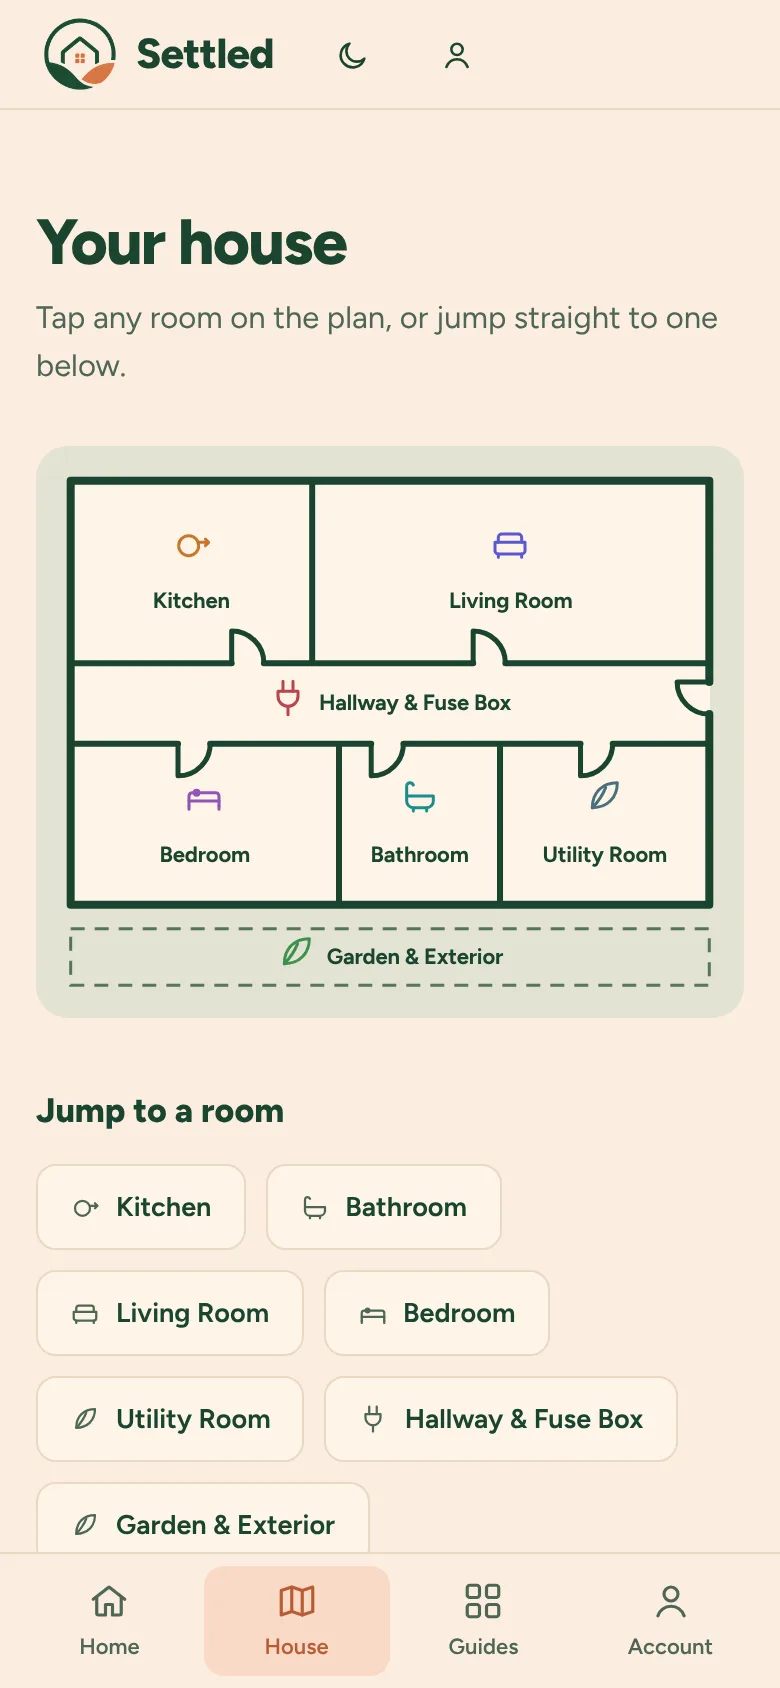
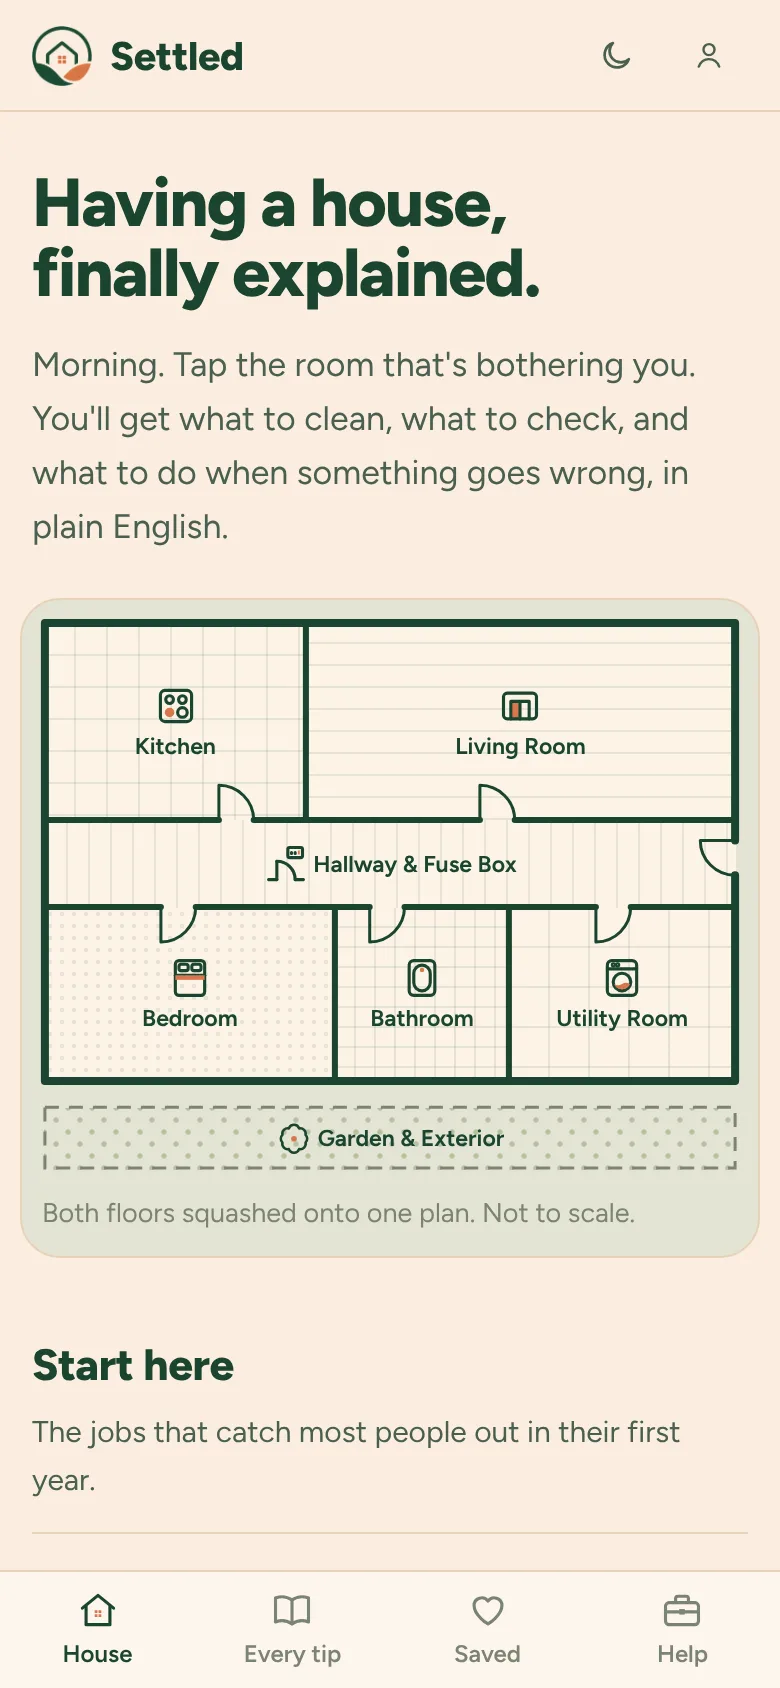
Major Site Rehaul 0.0.2

diff --git a/settled-business/public/icons.js b/settled-business/public/icons.js
@@ -1,0 +1,61 @@
+// Settled icons. Drawn for this app, not from an icon pack.
+//
+// Room icons are floor-plan symbols, the way an architect draws furniture
+// from above: a hob, a bath, a sofa, a bed. They match the house plan.
+// Anything with class "a" is filled in the logo's clay orange.
+//
+// Usage: icon("bath", 24) returns an <svg> string.
+
+const ICON_PATHS = {
+  /* ---- Rooms (plan symbols) ---- */
+  // Hob: four rings, the front-left one is on.
+  hob: '<rect x="3.5" y="3.5" width="17" height="17" rx="2.5"/><circle class="a" cx="8.5" cy="15.5" r="2.6"/><circle cx="15.5" cy="15.5" r="2.6"/><circle cx="8.5" cy="8.5" r="2.1"/><circle cx="15.5" cy="8.5" r="2.1"/>',
+  // Bath from above, plug at the tap end.
+  bath: '<rect x="5" y="2.5" width="14" height="19" rx="2.5"/><rect x="7.5" y="5" width="9" height="14" rx="4.5"/><circle class="a" cx="12" cy="7.6" r="1.2"/>',
+  // Sofa from above: back, arms, two seat cushions.
+  sofa: '<path class="a" d="M7 9.5h5v9.5H7z"/><rect x="3" y="5" width="18" height="14" rx="2"/><path d="M7 19V9.5h10V19M12 9.5V19"/>',
+  // Double bed: pillows at the top, duvet folded back.
+  bed: '<rect x="4" y="2.5" width="16" height="19" rx="2"/><rect x="6" y="4.5" width="5" height="3.5" rx="1.2"/><rect x="13" y="4.5" width="5" height="3.5" rx="1.2"/><path d="M4 10.5h16"/><path class="a" d="M4 10.5h16v2.5H4z"/>',
+  // Washing machine: drum with water in it.
+  washer: '<rect x="4" y="2.5" width="16" height="19" rx="2.5"/><path d="M4 7h16"/><circle cx="7.3" cy="4.8" r=".6"/><circle cx="9.6" cy="4.8" r=".6"/><circle cx="12" cy="14.2" r="4.8"/><path class="a" d="M7.6 15.3c1.4.9 2.9.9 4.4 0s3-.9 4.4 0a4.8 4.8 0 0 1-8.8 0z"/>',
+  // Front door swing, with the fuse box on the wall.
+  door: '<path d="M2.5 20.5H7M17 20.5h4.5"/><path d="M7 20.5V10.5"/><path d="M7 10.5a10 10 0 0 1 10 10"/><rect x="13" y="3" width="8" height="5.5" rx="1"/><path d="M15 5.7v.6M17 5.7v.6"/><path class="a" d="M18.5 4.6h1v2.2h-1z"/>',
+  // Tree from above, with the trunk showing through.
+  tree: '<path d="M12 3.2a3.6 3.6 0 0 1 3.4 2.4 3.6 3.6 0 0 1 4.3 4.3 3.6 3.6 0 0 1 0 5.2 3.6 3.6 0 0 1-4.3 4.3 3.6 3.6 0 0 1-6.8 0 3.6 3.6 0 0 1-4.3-4.3 3.6 3.6 0 0 1 0-5.2 3.6 3.6 0 0 1 4.3-4.3A3.6 3.6 0 0 1 12 3.2z"/><circle class="a" cx="12" cy="12.5" r="1.9"/>',
+
+  /* ---- App ---- */
+  // Home: the house from the logo, with its four-pane window.
+  home: '<path d="M3.5 11 12 4l8.5 7"/><path d="M5.5 9.5V20h13V9.5"/><path class="a" d="M10.2 12.2h1.5v1.5h-1.5zM12.3 12.2h1.5v1.5h-1.5zM10.2 14.3h1.5v1.5h-1.5zM12.3 14.3h1.5v1.5h-1.5z"/>',
+  // Guides: an open notebook.
+  guides: '<path d="M3 5.5c3.2-1.2 6.2-.9 9 1.1 2.8-2 5.8-2.3 9-1.1v13c-3.2-1.2-6.2-.9-9 1.1-2.8-2-5.8-2.3-9-1.1z"/><path d="M12 6.6v12.9"/>',
+  // Help: a toolbox with an orange catch.
+  help: '<rect x="3" y="8" width="18" height="12" rx="2"/><path d="M8.5 8V5.8a1.3 1.3 0 0 1 1.3-1.3h4.4a1.3 1.3 0 0 1 1.3 1.3V8"/><path d="M3 13h7.5M13.5 13H21"/><path class="a" d="M10.5 11.5h3v3h-3z"/>',
+  // Saved: a heart (filled orange once a tip is saved).
+  heart: '<path class="h" d="M12 19.6s-7.6-4.5-7.6-10a4.2 4.2 0 0 1 7.6-2.5 4.2 4.2 0 0 1 7.6 2.5c0 5.5-7.6 10-7.6 10z"/>',
+  phone: '<path d="M6.8 3.5h2.5l1.4 4-2 1.3a10.6 10.6 0 0 0 6.5 6.5l1.3-2 4 1.4v2.5a2 2 0 0 1-2.2 2A16.4 16.4 0 0 1 4.8 5.7a2 2 0 0 1 2-2.2z"/>',
+  link: '<path d="M10 14a4 4 0 0 0 5.7 0l3-3a4 4 0 0 0-5.7-5.7l-1.2 1.2"/><path d="M14 10a4 4 0 0 0-5.7 0l-3 3a4 4 0 0 0 5.7 5.7l1.2-1.2"/>',
+  user: '<circle cx="12" cy="8.2" r="3.9"/><path d="M4.8 20.2c1.3-3.5 4-5.3 7.2-5.3s5.9 1.8 7.2 5.3"/>',
+  search: '<circle cx="10.8" cy="10.8" r="6.3"/><path d="m15.5 15.5 5 5"/>',
+  back: '<path d="M19 12H5.5"/><path d="M11 6l-6 6 6 6"/>',
+  chevronRight: '<path d="m9.5 6 6 6-6 6"/>',
+  chevronDown: '<path d="m6 9.5 6 6 6-6"/>',
+  sun: '<circle cx="12" cy="12" r="4.2"/><path d="M12 2.8v2.1M12 19.1v2.1M2.8 12h2.1M19.1 12h2.1M5.5 5.5 7 7M17 17l1.5 1.5M5.5 18.5 7 17M17 7l1.5-1.5"/>',
+  moon: '<path d="M19.5 14.6A7.9 7.9 0 1 1 9.4 4.5a6.4 6.4 0 0 0 10.1 10.1z"/>',
+  download: '<path d="M12 3.5v11"/><path d="m7 10 5 5 5-5"/><path d="M4.5 20h15"/>',
+  share: '<path d="M12 3.5v11.5"/><path d="m8 7.5 4-4 4 4"/><path d="M6.5 11H6a1 1 0 0 0-1 1v7.5a1 1 0 0 0 1 1h12a1 1 0 0 0 1-1V12a1 1 0 0 0-1-1h-.5"/>',
+  close: '<path d="M6 6l12 12M18 6 6 18"/>',
+  check: '<path d="m4.5 12.5 4.8 4.8L19.5 7"/>'
+};
+
+// Which plan symbol each room uses.
+const ROOM_ICONS = { kitchen: "hob", bathroom: "bath", living: "sofa", bedroom: "bed", utility: "washer", hallway: "door", garden: "tree" };
+
+function icon(name, size) {
+  size = size || 20;
+  const path = ICON_PATHS[name] || ICON_PATHS.home;
+  return `<svg class="icon" width="${size}" height="${size}" viewBox="0 0 24 24" fill="none" stroke="currentColor" stroke-width="1.7" stroke-linecap="round" stroke-linejoin="round" aria-hidden="true">${path}</svg>`;
+}
+
+function roomIcon(room, size) {
+  return icon(ROOM_ICONS[room.id] || "home", size);
+}

diff --git a/settled-business/public/styles.css b/settled-business/public/styles.css
@@ -121,7 +121,7 @@ main { width: var(--page); margin: 0 auto; }
 .hero-lede { font-size: clamp(18.5px, 1.5vw, 20.5px); color: var(--ink-2); max-width: 38ch; margin-bottom: 32px; }
 .hero-actions { display: flex; flex-wrap: wrap; gap: 12px; }
 .hero-note { margin-top: 18px; font-size: 15px; color: var(--ink-3); }
-.hero-mark { justify-self: end; width: 100%; max-width: 330px; }
+.hero-phone { justify-self: end; width: min(270px, 100%); }
 
 /* Inner pages --------------------------------------------------------- */
 .page > section:first-child { padding-top: clamp(48px, 7vw, 88px); }
@@ -160,11 +160,15 @@ main { width: var(--page); margin: 0 auto; }
 .plan-lines .doors path { stroke-width: 2; }
 .plan-lines .fence { stroke-width: 1.5; stroke-dasharray: 6 5; }
 .room {
-  position: absolute; display: grid; place-items: center; text-align: center; padding: 4px;
+  position: absolute; display: flex; flex-direction: column; align-items: center; justify-content: center; gap: 6px; text-align: center; padding: 4px;
   background: var(--cream); color: var(--ink);
   font-size: clamp(11.5px, 1.25vw, 16px); font-weight: 650; line-height: 1.15;
 }
 .room[data-room="garden"] { background: transparent; }
+.room[data-room="hallway"], .room[data-room="garden"] { flex-direction: row; gap: 8px; }
+.room .icon { width: 34px; height: 34px; }
+.room[data-room="hallway"] .icon, .room[data-room="garden"] .icon { width: 26px; height: 26px; }
+.icon .a { fill: var(--clay); stroke: none; }
 .room:hover { background: var(--paper-2); }
 .room[aria-pressed="true"] { background: var(--picked); font-weight: 800; }
 .room:focus-visible { outline-offset: -6px; }
@@ -259,7 +263,7 @@ main { width: var(--page); margin: 0 auto; }
 @media (max-width: 820px) {
   .menu-btn { display: grid; }
   .hero { grid-template-columns: 1fr; padding: 40px 0 72px; gap: 28px; }
-  .hero-mark { order: -1; justify-self: start; max-width: 150px; }
+  .hero-phone { display: none; }
 }
 @media (max-width: 560px) {
   :root { --page: calc(100% - 36px); }
@@ -270,7 +274,9 @@ main { width: var(--page); margin: 0 auto; }
   .hero h1 { font-size: clamp(50px, 17vw, 76px); }
   .hero-actions .btn { width: 100%; }
   .look-panel { margin: 0 -8px; padding: 22px 16px; border-radius: 14px; }
-  .room { font-size: 11px; padding: 2px; }
+  .room { font-size: 11px; padding: 2px; gap: 3px; }
+  .room .icon { width: 22px; height: 22px; }
+  .room[data-room="hallway"] .icon, .room[data-room="garden"] .icon { width: 18px; height: 18px; }
   .readout { padding: 22px 20px; }
   .install-steps > div { grid-template-columns: 1fr; gap: 2px; }
   .faq-q { font-size: 16.5px; }

diff --git a/settled-business/public/main.js b/settled-business/public/main.js
@@ -80,9 +80,9 @@
     b.type = "button";
     b.className = "room";
     b.dataset.room = r.id;
-    b.style.cssText = `left:${r.plan.x}%;top:${r.plan.y}%;width:${r.plan.w}%;height:${r.plan.h}%;--accent:${r.accent}`;
+    b.style.cssText = `left:${r.plan.x}%;top:${r.plan.y}%;width:${r.plan.w}%;height:${r.plan.h}%`;
     b.setAttribute("aria-pressed", "false");
-    b.innerHTML = `<span>${esc(r.name)}</span>`;
+    b.innerHTML = `${typeof roomIcon === "function" ? roomIcon(r, 30) : ""}<span>${esc(r.name)}</span>`;
     b.addEventListener("click", () => select(r.id));
     plan.insertBefore(b, lines); // drawing stays on top of the room fills
     return b;
@@ -140,6 +140,7 @@
   /* ---------- FAQ (questions page) ---------- */
   const FAQS = [
     ["Is it really free?", "Yes. Every room and every tip is free to use."],
+    ["Can I save tips?", "Yes. Tap the heart on any tip and it goes in your Saved tab. If you sign in, your saved tips and your first-week list show up on your other devices too."],
     ["Will it always be free?", "Everything that's free now will stay free. Later on we plan to add Settled Premium, an optional upgrade with extra features on top. You won't need it to use the guide."],
     ["Is it on the App Store?", "No. You install it from your browser instead (the Install page shows how), so there's nothing to download from a store and updates show up straight away."],
     ["Does it work without signal?", "Yes. After you've installed it and opened it once, every room and tip is saved on your phone."],

diff --git a/settled-business/public/index.html b/settled-business/public/index.html
@@ -91,9 +91,8 @@
       </div>
       <p class="hero-note">Completely free. No account or app store needed.</p>
     </div>
-    <div class="hero-mark">
-      <img class="theme-light-only" src="/img/logo-full.png" alt="Settled" width="640" height="567">
-      <img class="theme-dark-only" src="/img/logo-full-dark.png" alt="Settled" width="640" height="567">
+    <div class="phone hero-phone" aria-hidden="true">
+      <img src="/img/app-screen.webp" alt="" width="390" height="844">
     </div>
   </section>
 
@@ -169,6 +168,7 @@
   </div>
 </footer>
 
+<script src="/icons.js" defer></script>
 <script src="/rooms.js" defer></script>
 <script src="/main.js" defer></script>
 </body>
